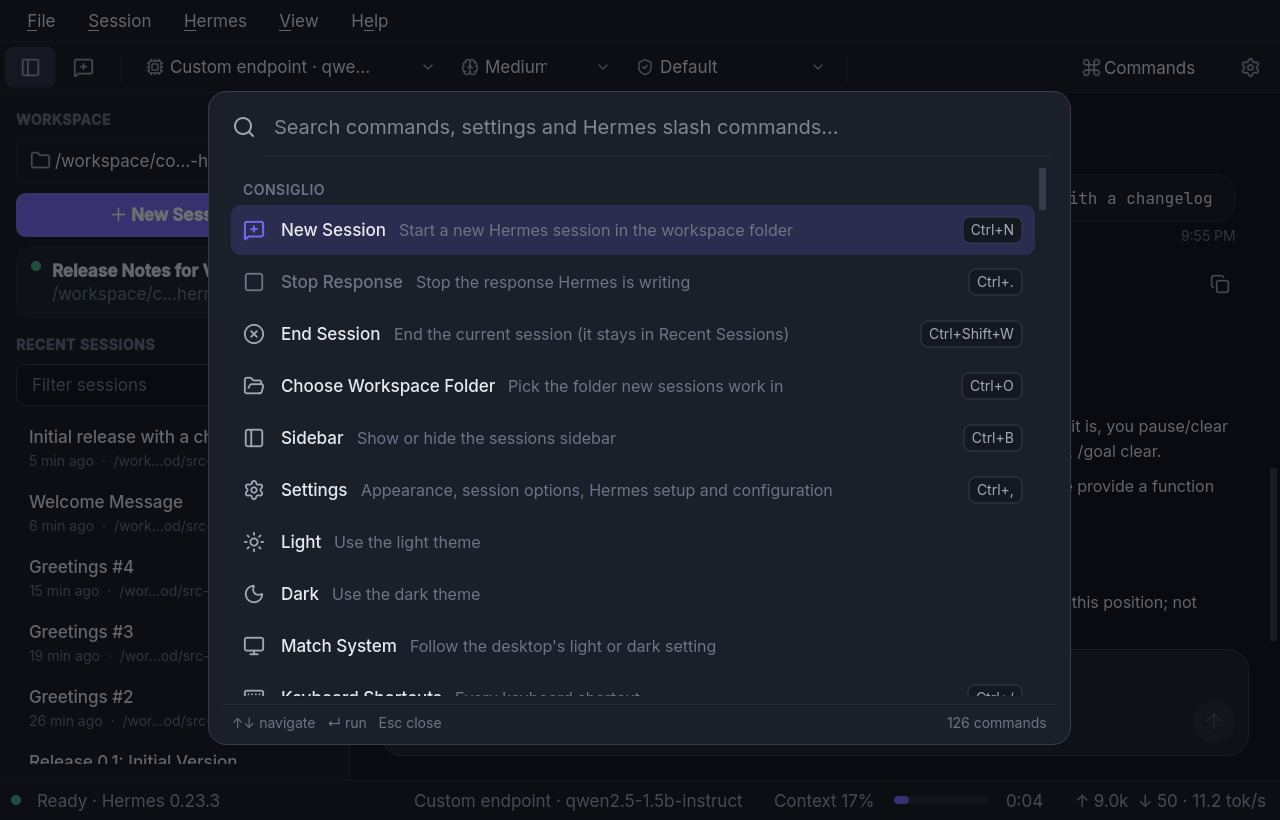
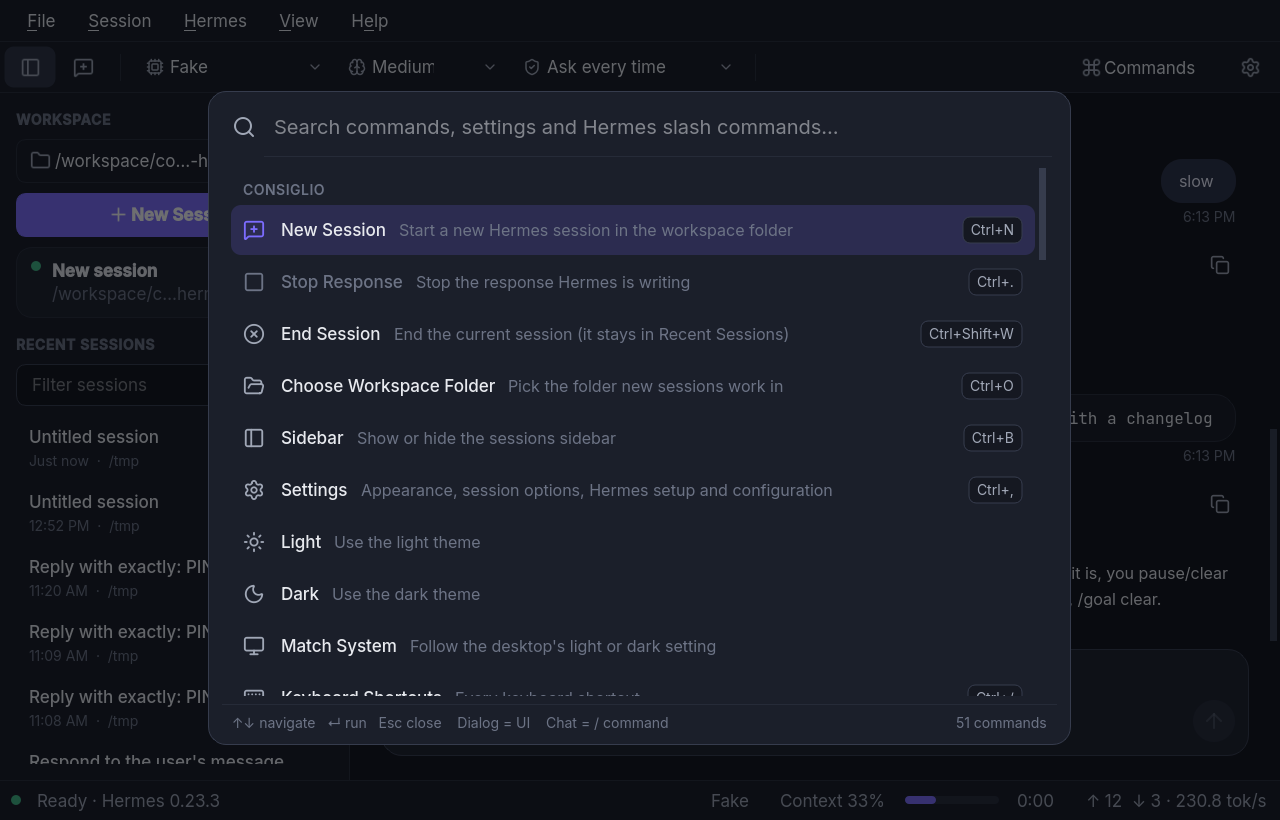
Show the new command dialogs in the README screenshot gallery
Add light and dark /model dialogs and the Command console, and refresh the
palette shots so the Dialog vs Chat badges are visible. Ignore only the
repo-root playtest screenshots folder, not docs/screenshots.

diff --git a/src-hermes/tests/uitour.cpp b/src-hermes/tests/uitour.cpp
@@ -195,7 +195,15 @@ static void tourDialogs(MainWindow &w, bool real) {
             }
         }
         d->show();
-        d->resize(d->sizeHint().expandedTo(QSize(560, 520)));
+        QSize minSize(560, 360);
+        if (auto *host = qobject_cast<CommandHostDialog *>(d)) {
+            if (host->plan().archetype == CommandArchetype::Confirm
+                || host->plan().archetype == CommandArchetype::TextPrompt)
+                minSize = QSize(560, 0);
+            else if (host->plan().archetype == CommandArchetype::Picker)
+                minSize = QSize(560, 560);
+        }
+        d->resize(d->sizeHint().expandedTo(minSize));
         shot(d, "command-ui-" + name);
         d->deleteLater();
     }

diff --git a/README.md b/README.md
@@ -33,9 +33,14 @@
     <td width="33%" align="center"><img src="docs/screenshots/palette-dark.png" alt="The command palette"><br><sub><b>Command palette</b> (Ctrl+K)</sub></td>
   </tr>
   <tr>
-    <td width="33%" align="center"><img src="docs/screenshots/palette-search-light.png" alt="The command palette filtered to model commands"><br><sub><b>Palette search</b> across Hermes commands</sub></td>
+    <td width="33%" align="center"><img src="docs/screenshots/palette-search-light.png" alt="The command palette filtered to model commands, with Dialog vs Chat badges"><br><sub><b>Palette search</b> — Dialog vs Chat</sub></td>
+    <td width="33%" align="center"><img src="docs/screenshots/model-dialog-dark.png" alt="The model picker dialog in the dark theme, with a current-model info panel and a selectable list"><br><sub><b>Model</b>: preview, then Save</sub></td>
+    <td width="33%" align="center"><img src="docs/screenshots/model-dialog-light.png" alt="The model picker dialog in the light theme"><br><sub><b>Model</b>, light theme</sub></td>
+  </tr>
+  <tr>
     <td width="33%" align="center"><img src="docs/screenshots/settings-appearance-light.png" alt="Appearance settings: theme, interface size and text sizes"><br><sub><b>Settings</b>: theme and text sizes</sub></td>
     <td width="33%" align="center"><img src="docs/screenshots/settings-shortcuts-dark.png" alt="Keyboard shortcuts settings page"><br><sub><b>Keyboard shortcuts</b>, dark theme</sub></td>
+    <td width="33%" align="center"><img src="docs/screenshots/command-console-dark.png" alt="The Command console, for sending a raw slash command to chat"><br><sub><b>Command console</b> for unmapped / commands</sub></td>
   </tr>
 </table>
 
